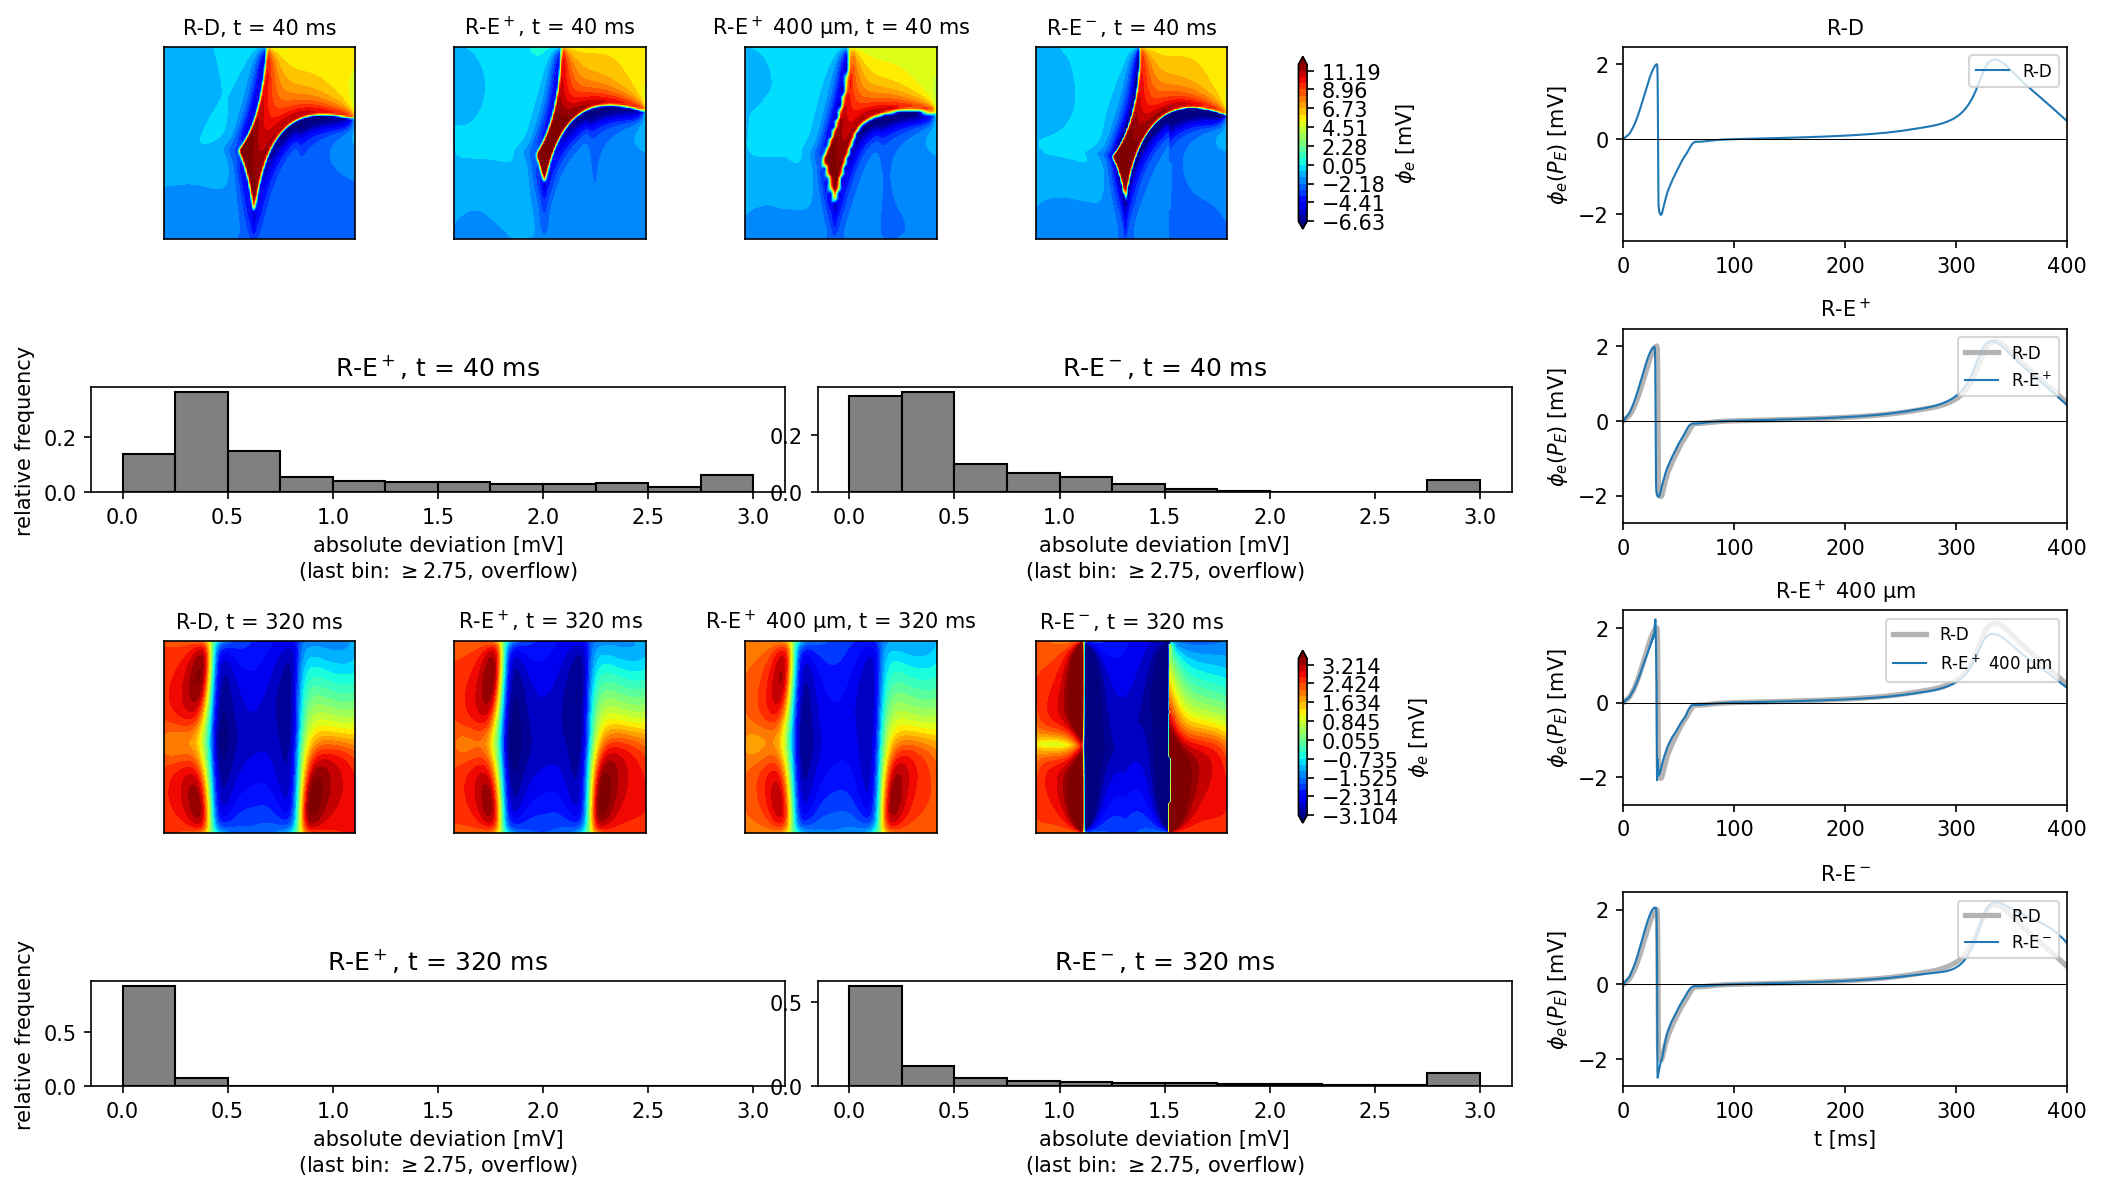
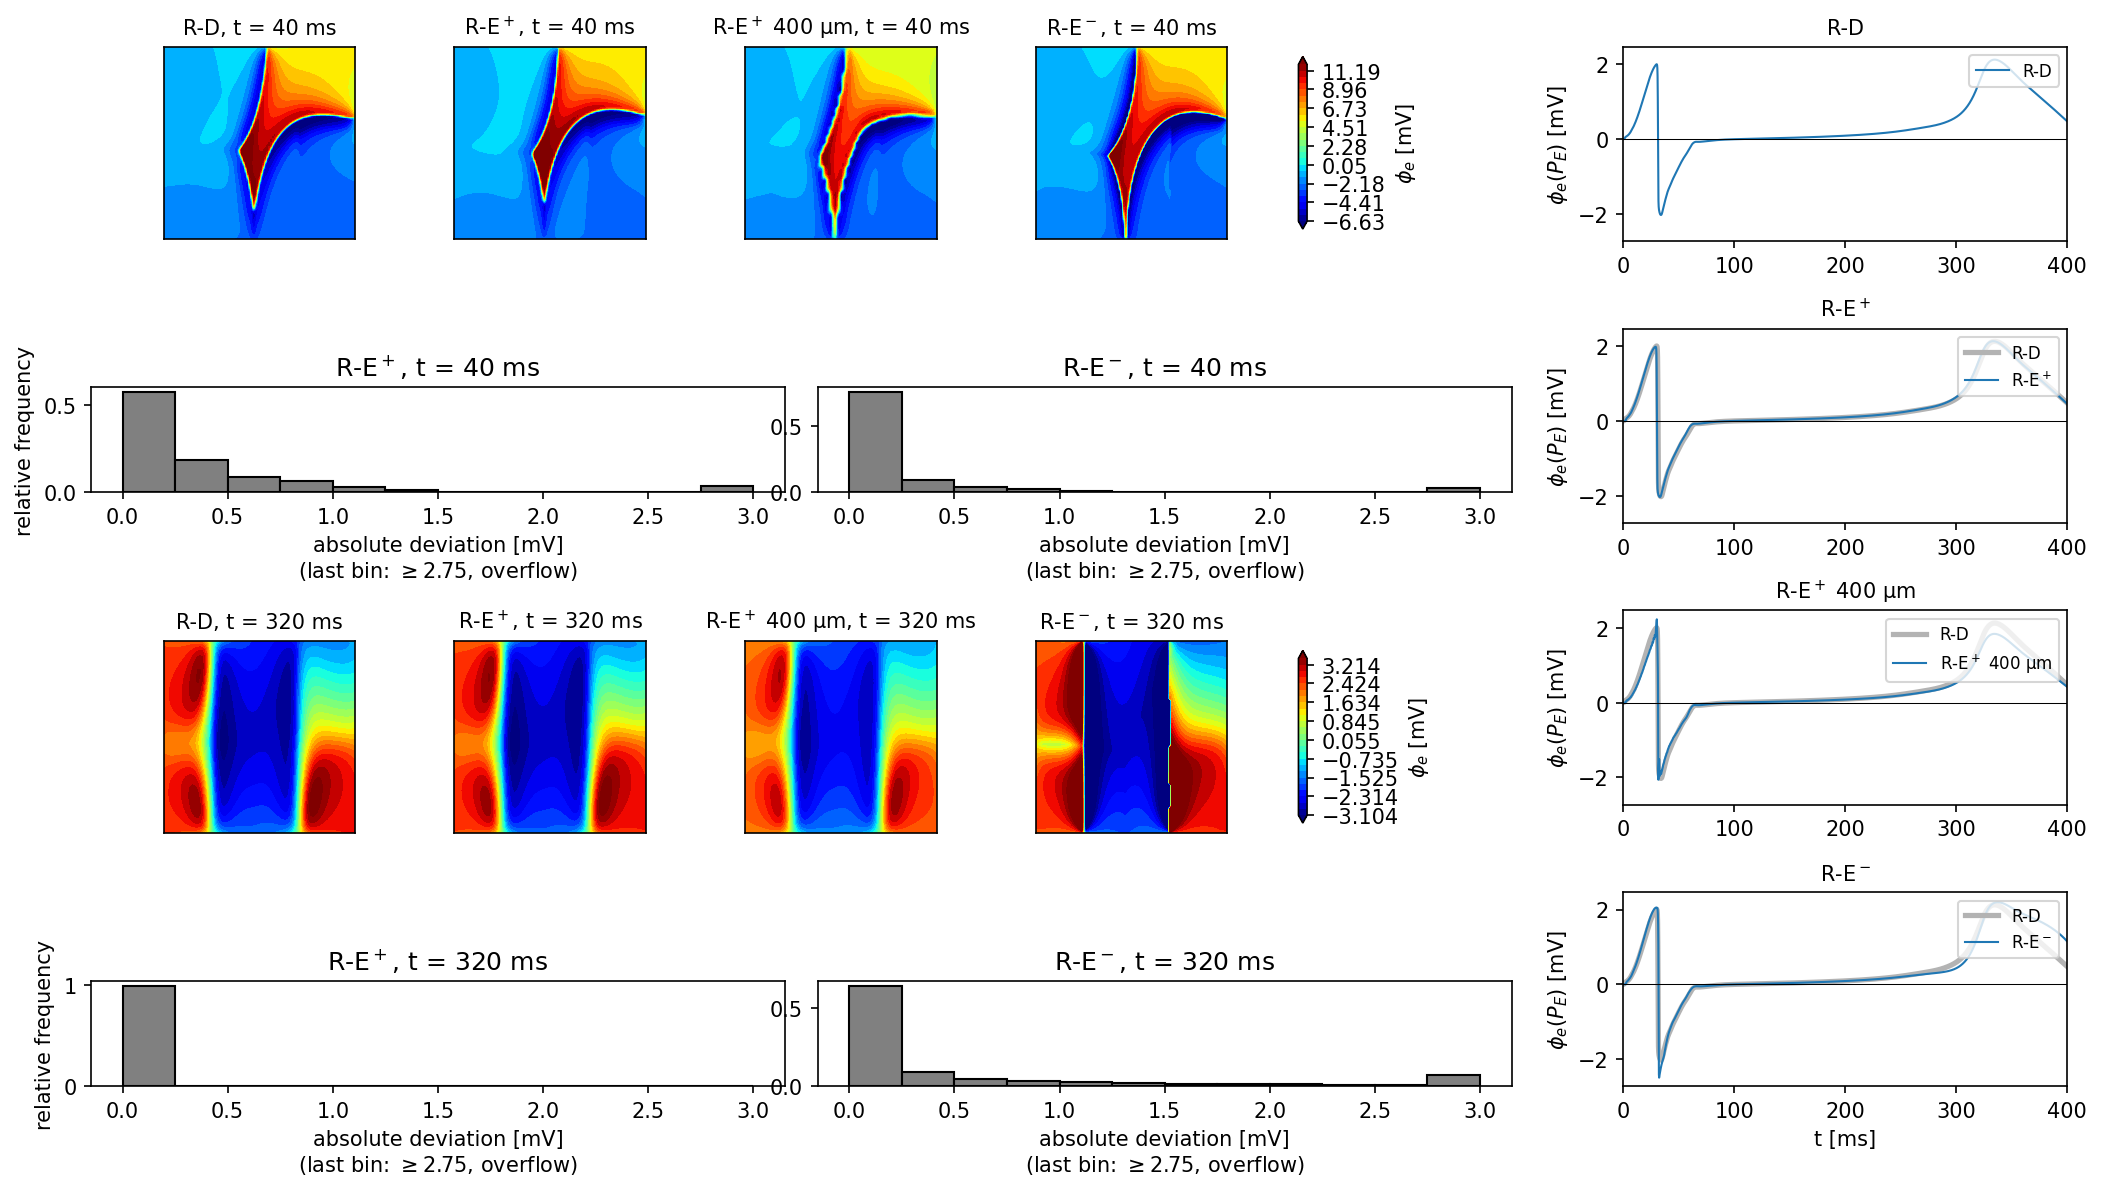
demos: start the wedge's eikonal sources after the stimulus delay; new figures and numbers
The R-E demos start each eikonal source 1.27 ms after its stimulus, the
time the R-D model takes from stimulus onset to activation in the
stimulated tissue (scripts/reaction_eikonal_cv.json). Figures 2, 4, 5 and
7 are regenerated from re-runs of all R-E cases with that delay.

The activation demo no longer blames the bath for R-E+ being early (it is
just as early without it). The remaining R-E offsets are explained by the
eikonal outrunning R-D in the wedge (3.4% shorter travel times at 100 um),
the mesh dependence of the eikonal map (4% longer at 400 um) and the
shorter upstroke lag of R-E+ (0.2 ms) than of R-E- (1.1 ms). Also fixes the
claim that R-D at 200 um activates late at P_E (it is 1 ms early).

diff --git a/demos/reaction_eikonal_wedge_activation.py b/demos/reaction_eikonal_wedge_activation.py
@@ -24,7 +24,11 @@
 # mathematical background); the paper's gold-standard full bidomain run is not repeated. The
 # eikonal uses the conduction velocities measured for this R-D model at 100 µm
 # (`scripts/reaction_eikonal_cv.py`) instead of the paper's nominal 0.6/0.3 m/s. The stimulus
-# positions are read off the paper's figures.
+# positions are read off the paper's figures. The paper starts the eikonal sources at the stimulus
+# times; here they start 1.27 ms later. That is how long the R-D model takes from the start of its
+# stimulus to activation (max $dv/dt$) in the stimulated tissue, measured by the same script.
+# Started with the stimulus, every eikonal activation time, and so every R-E upstroke, would be
+# 1.27 ms early compared with R-D.
 #
 # To keep the documentation build short, this demo runs the three models on the 400 µm wedge
 # for 70 ms; the results at 100/200/400 µm, computed with `scripts/reaction_eikonal_wedge.py`,
@@ -52,6 +56,7 @@ dx = 0.4  # mm
 dt = 0.02  # ms
 end_time = 70.0  # ms
 CV_L, CV_T = 0.594, 0.324  # mm/ms, from scripts/reaction_eikonal_cv.json
+STIMULUS_DELAY = 1.27  # ms from the start of a stimulus to R-D activation, from the same file
 # -
 
 # ## Geometry, cell models and conductivities
@@ -98,10 +103,13 @@ def cell_solver(v_pde):
 
 # ## The activation time from the eikonal equation
 #
-# The three stimuli become eikonal sources (S1 and S3 at $t = 0$, S2 at $t = 5$ ms).
+# The three stimuli become eikonal sources (S1 and S3 stimulated at $t = 0$, S2 at $t = 5$ ms),
+# each starting `STIMULUS_DELAY` after its stimulus, when R-D activates the stimulated tissue.
 
 # +
-sources = [Source((wedge.cell_tags, tag), t0) for tag, t0 in wedge.stimuli.values()]
+sources = [
+    Source((wedge.cell_tags, tag), t0 + STIMULUS_DELAY) for tag, t0 in wedge.stimuli.values()
+]
 t_a = solve_eikonal(mesh, (CV_L, CV_T, CV_T), (geo.f0, geo.s0, geo.n0), sources)
 # -
 
@@ -245,19 +253,36 @@ if comm.rank == 0:
 # ![Fig. 2](../docs/_static/reaction_eikonal_fig2.png)
 #
 # Against R-D at 100 µm, the median relative deviation of the activation time is 13% (90% of the
-# points below 25%) for R-D at 400 µm, 2.7% (90% below 5.2%) for R-E$^+$ at 400 µm and 0.8% (90%
-# below 2.5%) for R-E$^-$ at 400 µm; at 200 µm it is 1.5% for R-D. R-E$^+$ at 200 µm has a median
-# of 7.4%, larger than at 400 µm, because its activation is systematically early: with the bath
-# layer the 100 µm R-D wave is slower than the eikonal wave at the measured velocities, which are
-# unchanged. The size of the augmentation layer matters little: with three rings at every
-# resolution (instead of a constant 0.3 mm) the 400 µm R-D median would be 10.9% and R-E$^+$
-# 3.0%. In the 100 µm panels R-E$^+$ shows a small kink in the contours at the left edge.
+# points below 25%) for R-D at 400 µm and 1.5% for R-D at 200 µm. For R-E$^+$ it is 2.7% (90%
+# below 4.7%) at 100 µm, 3.6% at 200 µm and 2.0% (90% below 5.3%) at 400 µm; for R-E$^-$ it is
+# 1.3% (90% below 4.1%) at 100 µm and 4.7% (90% below 9.1%) at 400 µm. The R-D error grows with
+# the distance from the sources, while the R-E errors are mostly a constant shift (the median
+# signed deviations are $-0.8$ ms for R-E$^+$ and $+0.1$ ms for R-E$^-$ at 100 µm, and $+0.6$ and
+# $+1.3$ ms at 400 µm). Three effects add up to this shift:
 #
-# The upstrokes at $P_E$ (cf. the paper's Fig. 4): R-D at 200 and 400 µm activates late, the R-E
-# models do not; R-E$^-$ has a faster upstroke and a larger overshoot because it ignores
-# diffusion. The upstroke at $P_E$ occurs at 31.3 ms (R-D), 29.1 ms (R-E$^+$) and 30.5 ms
-# (R-E$^-$) at 100 µm, and at 33.0, 30.0 and 31.2 ms at 400 µm: the R-E times hardly depend on the
-# mesh, whereas R-D is delayed by 1.7 ms. The R-E$^+$ and R-E$^-$ times differ from R-D by about
-# 2 ms and 0.8 ms (100 µm).
+# - The eikonal wave is faster than the R-D wave in the wedge: at 100 µm its travel times are
+#   3.4% shorter (median), about 1 ms at the median activation time. The velocities come from a
+#   slab with straight fibers, so we suspect the fiber rotation through the wedge wall, which the
+#   eikonal does not feel, slows R-D down.
+# - The eikonal map depends on the mesh: at 400 µm its travel times are 4% longer than at 100 µm,
+#   presumably the first-order discretization error of the eikonal solver.
+# - The upstroke (max $dv/dt$) lags the eikonal activation time by 1.1 ms in R-E$^-$, but by only
+#   0.2 ms (median) in R-E$^+$, where diffusion from the activated tissue adds to the foot current
+#   and depolarizes the tissue ahead of the eikonal front.
+#
+# At 100 µm the first and the last cancel for R-E$^-$, while R-E$^+$ is early; at 400 µm the
+# slower eikonal map makes both late. With the sources started at the stimulus times, as in the
+# paper, every R-E time is 1.27 ms earlier, and R-E$^+$ at 100 µm was early by 2.0 ms (median
+# relative deviation 6.7%). The bath is not the cause: without it, and with that source timing,
+# R-E$^+$ is early by about the same amount. The size of the augmentation layer matters little:
+# with three rings at every resolution (instead of a constant 0.3 mm) the 400 µm R-D median would
+# be 10.9%.
+#
+# The upstrokes at $P_E$ (cf. the paper's Fig. 4): R-D at 400 µm activates late; R-E$^-$ has a
+# faster upstroke and a larger overshoot because it ignores diffusion. The upstroke at $P_E$
+# occurs at 31.3 ms (R-D), 30.3 ms (R-E$^+$) and 31.8 ms (R-E$^-$) at 100 µm, and at 33.0, 31.3
+# and 32.5 ms at 400 µm: from 100 to 400 µm R-D is delayed by 1.7 ms and the R-E models by 0.7 to
+# 1.0 ms, the latter from the coarser eikonal map. R-D at 200 µm activates at 30.3 ms, 1 ms
+# before R-D at 100 µm.
 #
 # ![Fig. 4](../docs/_static/reaction_eikonal_fig4.png)

diff --git a/demos/reaction_eikonal_wedge_electrograms.py b/demos/reaction_eikonal_wedge_electrograms.py
@@ -102,7 +102,10 @@ cells = beat.odesolver.DolfinMultiODESolver(
     v_index={k: m["state_index"]("V") for k, m in cell_models.items()},
 )
 cv = (0.594, 0.324, 0.324)  # mm/ms, from scripts/reaction_eikonal_cv.json
-sources = [Source((wedge.cell_tags, tag), t0) for tag, t0 in wedge.stimuli.values()]
+stimulus_delay = 1.27  # ms from the start of a stimulus to R-D activation, from the same file
+sources = [
+    Source((wedge.cell_tags, tag), t0 + stimulus_delay) for tag, t0 in wedge.stimuli.values()
+]
 t_a = solve_eikonal(mesh, cv, (geo.f0, geo.s0, geo.n0), sources)
 solver = beat.SplittingSolver(pde=None, ode=FootCurrentODESolver(cells, t_a, ExponentialFoot()))
 v = solver.v
@@ -153,20 +156,20 @@ if comm.rank == 0:
 #
 # Left: $\phi_e$ on the mid-plane at 40 and 320 ms for R-D, R-E$^+$ (100 and 400 µm) and R-E$^-$,
 # with histograms of the deviation from R-D at 100 µm; right: the electrogram at $P_E$. At 40 ms,
-# 90% (95%) of the R-E$^+$ potentials are within 2.4 mV (8.9 mV) of R-D and 90% (95%) of the
-# R-E$^-$ potentials within 1.2 mV (1.8 mV); at 320 ms the numbers are 0.22 mV (0.30 mV) for
-# R-E$^+$ and 2.3 mV (3.5 mV) for R-E$^-$. The paper reports 0.25 mV and 0.75 mV for 90% of R-E$^+$
+# 90% (95%) of the R-E$^+$ potentials are within 0.93 mV (1.3 mV) of R-D and 90% (95%) of the
+# R-E$^-$ potentials within 0.77 mV (1.9 mV); at 320 ms the numbers are 0.11 mV (0.16 mV) for
+# R-E$^+$ and 2.2 mV (3.4 mV) for R-E$^-$. The paper reports 0.25 mV and 0.75 mV for 90% of R-E$^+$
 # and 95% of R-E$^-$ at 40 ms, so both of our deviations at 40 ms are larger than the paper's:
-# R-E$^+$ by about a factor 10 (2.4 against 0.25 mV) and R-E$^-$ by about a factor 2.4 (1.8 against
-# 0.75 mV). Our R-E$^+$ tail at 40 ms is dominated by the thin depolarization
-# front: the 2 ms earlier eikonal activation (see the activation demo) probably shifts the steep
-# $\phi_e$ front, which gives large point-wise differences in a narrow band. The median deviation
-# is 0.50 mV, still about twice the paper's 90% bound, so the disagreement is not confined to the tail. The electrograms of R-E$^+$ lie on top of R-D, also at 400 µm
-# (peak-to-peak 4.17 and 4.31 mV against 4.15 mV for R-D); R-E$^-$ has a deeper negative peak
-# ($-2.50$ against $-2.03$ mV) and a late deflection that peaks 1.5 ms later and is slightly
-# larger than R-D (2.19 against 2.13 mV), and it stays higher until the end (1.25 against 0.61 mV
-# at 395 ms), qualitatively as in the paper. As a check, the maps at $P_E$ equal the electrogram samples (for
-# example $-1.395$ mV for R-D at 40 ms).
+# R-E$^+$ by about a factor 4 (0.93 against 0.25 mV) and R-E$^-$ by about a factor 2.5 (1.9
+# against 0.75 mV). The median deviation of R-E$^+$ at 40 ms is 0.22 mV, below the paper's 90%
+# bound, so the excess is in the tail: the R-E$^+$ depolarization front runs about 0.8 ms ahead of
+# R-D (see the activation demo), which shifts the steep $\phi_e$ gradient at the front and gives
+# large point-wise differences in a narrow band. The electrograms of R-E$^+$ lie on top of R-D, also at 400 µm (peak-to-peak 4.17 and 4.29 mV
+# against 4.15 mV for R-D); R-E$^-$ has a deeper negative peak ($-2.50$ against $-2.03$ mV) and a
+# late deflection that peaks 2.8 ms later and is slightly larger than R-D (2.20 against 2.13 mV),
+# and it stays higher until the end (1.29 against 0.61 mV at 395 ms), qualitatively as in the
+# paper. As a check, the maps at $P_E$ equal the electrogram samples (for example $-1.395$ mV for
+# R-D at 40 ms).
 #
 # The amplitudes differ from the paper's Fig. 7C, where the electrogram at $P_E$ ranges from about
 # $-8$ to $+5$ mV during depolarization and reaches about 5 mV near 300 ms; ours peaks at about

diff --git a/demos/reaction_eikonal_wedge_repolarization.py b/demos/reaction_eikonal_wedge_repolarization.py
@@ -35,6 +35,7 @@ comm = MPI.COMM_WORLD
 dx, dt = 0.4, 0.05  # mm, ms: R-E- has no diffusion, so a larger time step is fine
 end_time = 50.0  # ms; 305.0 reproduces t_r50
 CV_L, CV_T = 0.594, 0.324  # mm/ms, from scripts/reaction_eikonal_cv.json
+STIMULUS_DELAY = 1.27  # ms from the start of a stimulus to R-D activation, from the same file
 # -
 
 # +
@@ -63,7 +64,9 @@ cells = beat.odesolver.DolfinMultiODESolver(
     num_states={k: len(v) for k, v in init.items()},
     v_index={k: m["state_index"]("V") for k, m in cell_models.items()},
 )
-sources = [Source((wedge.cell_tags, tag), t0) for tag, t0 in wedge.stimuli.values()]
+sources = [
+    Source((wedge.cell_tags, tag), t0 + STIMULUS_DELAY) for tag, t0 in wedge.stimuli.values()
+]
 t_a = solve_eikonal(geo.mesh, (CV_L, CV_T, CV_T), (geo.f0, geo.s0, geo.n0), sources)
 solver = beat.SplittingSolver(pde=None, ode=FootCurrentODESolver(cells, t_a, ExponentialFoot()))
 start = walltime.perf_counter()
@@ -95,8 +98,8 @@ if comm.rank == 0:
 # $|v_{R-D} - v_{R-E}|$ at $t_{r50}$ over the mid-plane (paper Eq. 34). Right: action potentials
 # at the centres of the endocardial and M layers. As in the paper, R-E$^+$ matches R-D closely,
 # while R-E$^-$ has steps at the layer boundaries and larger deviations. Quantitatively, over the
-# mid-plane the absolute deviation from R-D at 100 µm has a median of 0.7 mV for R-E$^+$ at 400 µm
-# (90% of the points below 2.2 mV, 95% below 2.4 mV) and 2.0 mV for R-E$^-$ (90% below 11.5 mV,
-# 95% below 16.7 mV, dominated by the layer-boundary steps).
+# mid-plane the absolute deviation from R-D at 100 µm has a median of 0.2 mV for R-E$^+$ at 400 µm
+# (90% of the points below 1.1 mV, 95% below 1.4 mV) and 1.3 mV for R-E$^-$ (90% below 10.0 mV,
+# 95% below 14.9 mV, dominated by the layer-boundary steps).
 #
 # ![Fig. 5](../docs/_static/reaction_eikonal_fig5.png)
